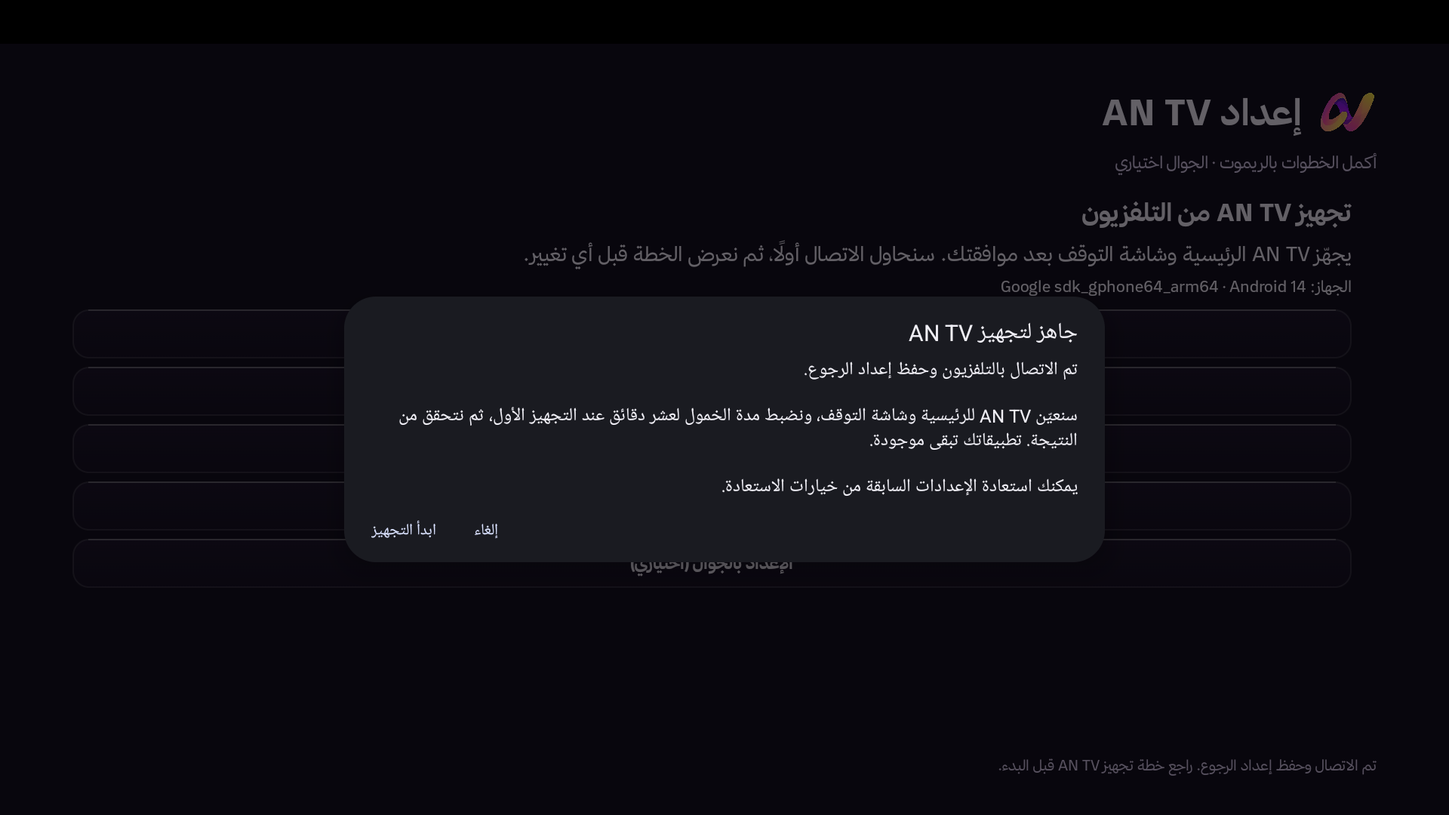
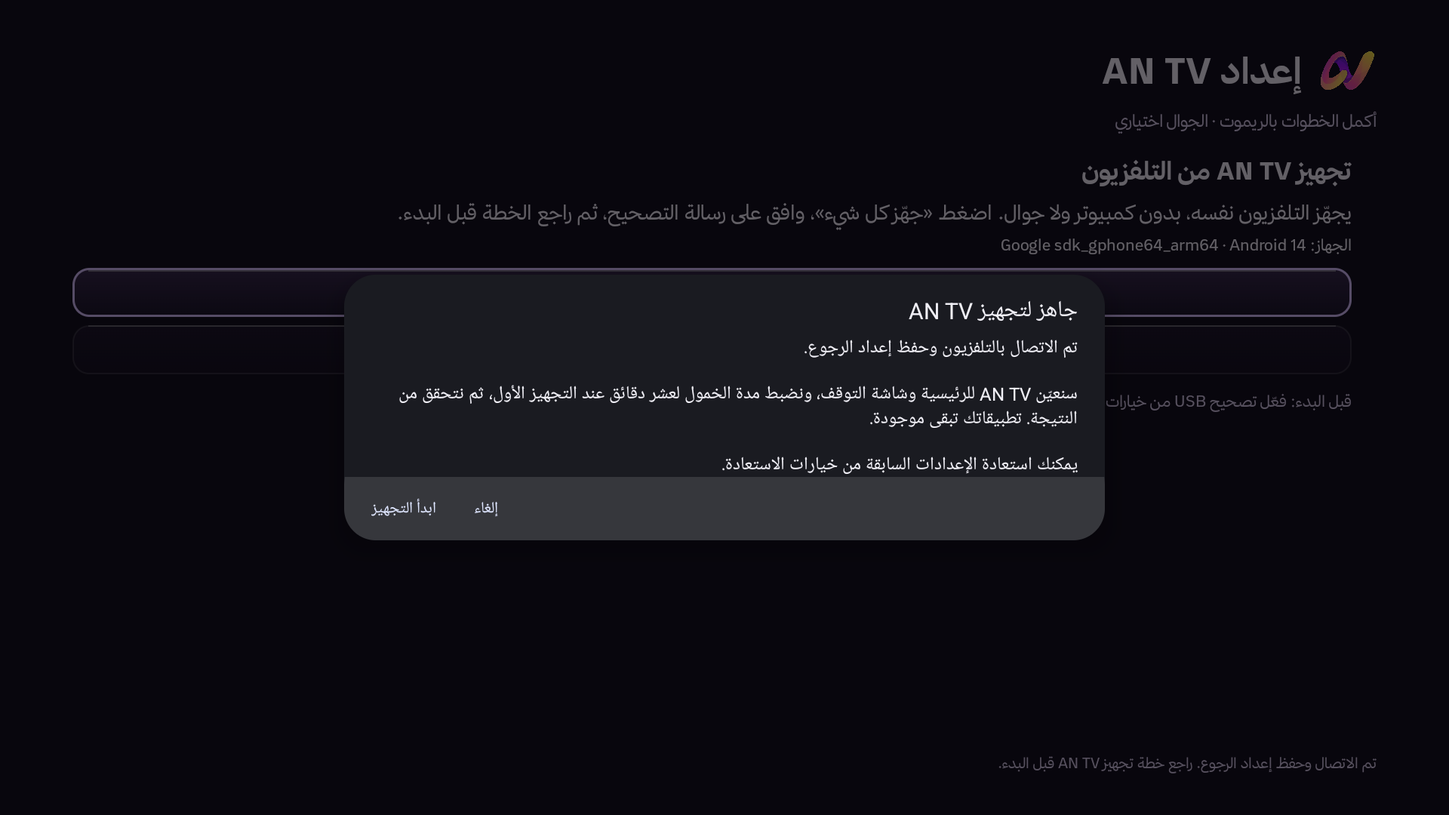
Show prepare-all start screen and simplified installation sequence

diff --git a/docs/index.html b/docs/index.html
@@ -46,17 +46,17 @@
       <p class="sub">ابدأ من التلفزيون والريموت · نحو ٥–١٥ دقيقة بحسب الجهاز والتحميل.</p>
       <div class="download-strip"><span>نزّل AN TV من Downloader</span><div class="downloader-code" aria-label="رمز داونلودر 1982161">1982161</div><span>اكتب الرمز ثم Go وثبّت التطبيق.</span></div>
       <div class="picture-steps">
-        <figure><a href="assets/current-setup.png?v=1351" target="_blank" rel="noopener"><img src="assets/current-setup.png?v=1351" alt="الخطوة الأولى: بدء تجهيز AN TV بزر واحد" loading="lazy"></a><figcaption><span class="step-index">١</span><div><h3>افتح واضغط جهّز</h3><p>افتح AN TV واضغط «جهّز AN TV»؛ يحاول الاتصال مباشرة.</p></div></figcaption></figure>
-        <figure><a href="assets/current-setup-2.png?v=1351" target="_blank" rel="noopener"><img src="assets/current-setup-2.png?v=1351" alt="الخطوة الثانية: مراجعة خطة التجهيز قبل الموافقة" loading="lazy"></a><figcaption><span class="step-index">٢</span><div><h3>جهّز الواجهة</h3><p>وافق على رسالة التصحيح، ثم راجع الخطة واضغط «ابدأ التجهيز».</p></div></figcaption></figure>
-        <figure><a href="assets/current-setup-3.png?v=1351" target="_blank" rel="noopener"><img src="assets/current-setup-3.png?v=1351" alt="الخطوة الثالثة: اختيار المدينة وإنهاء الإعداد وفتح الرئيسية" loading="lazy"></a><figcaption><span class="step-index">٣</span><div><h3>اختر مدينتك، وانتهينا</h3><p>بعد نجاح التجهيز اختر المدينة، ثم «إنهاء وفتح الرئيسية». جرّب زر Home.</p></div></figcaption></figure>
+        <figure><a href="assets/current-setup.png?v=1352" target="_blank" rel="noopener"><img src="assets/current-setup.png?v=1352" alt="الخطوة الأولى: بدء تجهيز AN TV بزر واحد" loading="lazy"></a><figcaption><span class="step-index">١</span><div><h3>افتح واضغط جهّز</h3><p>افتح AN TV واضغط «جهّز كل شيء»؛ يحاول الاتصال مباشرة.</p></div></figcaption></figure>
+        <figure><a href="assets/current-setup-2.png?v=1352" target="_blank" rel="noopener"><img src="assets/current-setup-2.png?v=1352" alt="الخطوة الثانية: مراجعة خطة التجهيز قبل الموافقة" loading="lazy"></a><figcaption><span class="step-index">٢</span><div><h3>جهّز الواجهة</h3><p>وافق على رسالة التصحيح، ثم راجع الخطة واضغط «ابدأ التجهيز».</p></div></figcaption></figure>
+        <figure><a href="assets/current-setup-3.png?v=1352" target="_blank" rel="noopener"><img src="assets/current-setup-3.png?v=1352" alt="الخطوة الثالثة: اختيار المدينة وإنهاء الإعداد وفتح الرئيسية" loading="lazy"></a><figcaption><span class="step-index">٣</span><div><h3>اختر مدينتك، وانتهينا</h3><p>بعد نجاح التجهيز اختر المدينة، ثم «إنهاء وفتح الرئيسية». جرّب زر Home.</p></div></figcaption></figure>
       </div>
       <p class="guide-note">اضغط الصورة لتكبيرها. تشغيل التصحيح مطلوب أول مرة؛ افتح خيارات المطور إذا لم يكن مفعّلًا. اللقطات من التطبيق على محاكي Android 14.</p>
       <details class="help-fold"><summary>تريد استخدام الجوال أو الكمبيوتر؟</summary><div class="alternative-grid"><div><h3>من الجوال · ١٠–٢٠ دقيقة</h3><p>نفس واي فاي التلفزيون ← افتح «الإعداد بالجوال» داخل AN TV ← امسح QR وأكمل. الموافقة على التصحيح تكون بالريموت.</p><p>لنقل الملف بدل Downloader: استخدم LocalSend إذا كان متاحًا على الجهازين.</p></div><div><h3>من الكمبيوتر · ١٠–٢٥ دقيقة</h3><p>نفس الشبكة ← أدوات Android Platform Tools ← اتصال ADB وتثبيت AN-TV.apk ← أكمل التجهيز من التلفزيون.</p><p>الأوامر والاقتران اللاسلكي في التفاصيل أدناه.</p></div></div></details>
       <details class="help-fold"><summary>تعطّل التثبيت أو لم تظهر رسالة السماح؟</summary><p>أعد تشغيل التلفزيون وجرّب التجهيز مجددًا. بعض الأجهزة تحتاج اقترانًا لاسلكيًا أو كمبيوترًا مرة واحدة. إذا ظهر «تطبيق ضار ومحظور»، أرسل صورة التحذير لفحص السبب؛ هذه المشكلة لم يُؤكد حلها بعد.</p></details>
-      <details class="help-fold"><summary>الشرح الكامل والأوامر والاستعادة والإزالة</summary><div class="full-guide"><h3>اختر الطريقة</h3><div style="overflow:auto"><table><tr><td>الطريقة</td><td>المطلوب</td><td>الوقت التقريبي</td></tr><tr><td>التلفزيون وحده</td><td>ريموت، إنترنت، Downloader، وتصحيح متاح</td><td>5–15 دقيقة</td></tr><tr><td>الجوال</td><td>أندرويد أو آيفون؛ نفس شبكة التلفزيون للتحكم المحلي</td><td>10–20 دقيقة</td></tr><tr><td>الكمبيوتر</td><td>Windows أو Mac أو Linux، وأدوات ADB عند الحاجة</td><td>10–25 دقيقة</td></tr></table></div><p>الأوقات تقديرية وقد تزيد عند تنزيل الملف أو حل مشكلة التصحيح. هذه تقديرات AN TV وليست قياسات لجميع الموديلات. تثبيت APK خطوة، وتفعيل الرئيسية وشاشة التوقف خطوة تالية.</p><h3>1 — من التلفزيون نفسه</h3><p>1. افتح إعدادات التلفزيون ثم النظام أو تفضيلات الجهاز، ثم لمحة/حول.</p><p>2. اضغط على رقم الإصدار Build سبع مرات حتى تظهر خيارات المطور.</p><p>3. افتح خيارات المطور وفعّل تصحيح USB أو ADB. إذا كان الجهاز يعرض تصحيحًا لاسلكيًا برمز، استخدم مسار الاقتران بدل افتراض المنفذ 5555.</p><p>4. نزّل Downloader من متجر التلفزيون. اكتب الرمز <strong>1982161</strong> ثم Go. هذا رمز AN TV.</p><p>5. اسمح لـ Downloader بتثبيت التطبيقات عندما يطلب النظام ذلك، وثبّت AN TV ثم افتحه.</p><p>6. افتح AN TV واضغط «جهّز AN TV». إذا تعذر الاتصال افتح خيارات المطور أو خيارات الاقتران حسب جهازك.</p><p>7. اضغط <span style="white-space:nowrap">«جهّز AN TV»</span>، واقرأ الخطة، ثم «ابدأ التجهيز».</p><p>8. وافق على رسالة السماح بالتصحيح من AN TV Setup. يبقى المعالج مفتوحًا أثناء العمل.</p><p>9. يحفظ المعالج اختيار الرئيسية وشاشة التوقف ومدة الخمول السابقة، ثم يضبط AN TV ويتحقق من الاختيارين. هذه نسخة إعدادات رجوع، وليست نسخة كاملة لنظام التشغيل.</p><p>10. بعد النجاح اختر منطقتك ومدينتك، ثم «إنهاء وفتح الرئيسية».</p><p>11. اختبر زر Home، ومعاينة شاشة التوقف، ثم استمرار الواجهة بعد إعادة تشغيل الجهاز.</p><p>12. افتح إعدادات AN TV ← تنبيه الأذان، وامنح إذن الظهور فوق التطبيقات، واختر المؤذن وطريقة التنبيه، ثم اختبر المعاينة بالصوت.</p><p>إذا لم تظهر رسالة التصحيح، أعد تشغيل التلفزيون وافتح معالج الإعداد مرة أخرى. بعض الأجهزة لا تفتح ADB عبر الشبكة بمجرد تفعيل USB؛ تحتاج اقترانًا لاسلكيًا أو كمبيوترًا مرة واحدة. لا توجد طريقة مضمونة لكل الموديلات.</p><h3>2 — من الجوال</h3><h4>النقل والتحكم من أندرويد أو آيفون</h4><p>1. اتصل بالجوال والتلفزيون بنفس شبكة المنزل، دون شبكة ضيوف معزولة.</p><p>2. الأسهل تنزيل التطبيق بـ Downloader على التلفزيون. البديل: نزّل APK من صفحة AN TV، وانقله عبر LocalSend إذا كان متاحًا على الجهازين، ثم افتحه على التلفزيون وثبّته.</p><p>3. افتح معالج إعداد AN TV على التلفزيون واضغط «الإعداد بالجوال (اختياري)».</p><p>4. امسح QR وافتح الرابط المحلي، وأدخل رمز الإعداد الظاهر إن طُلب.</p><p>5. من الصفحة افتح خيارات المطور على التلفزيون، وفعّل التصحيح بالريموت. ارجع للمعالج وأدخل بيانات الاقتران فقط إذا كان جهازك يعرضها.</p><p>6. نفّذ التفعيل، ووافق على رسالة التصحيح بالريموت، ثم اختر المدينة وأنهِ الإعداد.</p><p>7. إذا تعذر فتح الرابط: أبقِ المعالج مفتوحًا، واسمح بالوصول للشبكة المحلية عند طلب المتصفح، وتأكد من عدم عزل الأجهزة في الراوتر. يمكنك إكمال كل الخطوات بالريموت.</p><p>التحكم المحلي لا يحتاج حسابًا أو اشتراكًا. يحتاج نفس الشبكة؛ نقل الصور خدمة مختلفة عن إعداد التثبيت.</p><h4>إذا لم يستطع التلفزيون إجراء اتصال ADB محلي</h4><p>على أندرويد يمكن استخدام Termux مع حزمة android-tools للاتصال بالجهاز. على الكمبيوتر تُستخدم Android Platform Tools. إذا ظهر اقتران لاسلكي:</p><pre dir="ltr"><code>adb pair TV_IP:PAIR_PORT
+      <details class="help-fold"><summary>الشرح الكامل والأوامر والاستعادة والإزالة</summary><div class="full-guide"><h3>اختر الطريقة</h3><div style="overflow:auto"><table><tr><td>الطريقة</td><td>المطلوب</td><td>الوقت التقريبي</td></tr><tr><td>التلفزيون وحده</td><td>ريموت، إنترنت، Downloader، وتصحيح متاح</td><td>5–15 دقيقة</td></tr><tr><td>الجوال</td><td>أندرويد أو آيفون؛ نفس شبكة التلفزيون للتحكم المحلي</td><td>10–20 دقيقة</td></tr><tr><td>الكمبيوتر</td><td>Windows أو Mac أو Linux، وأدوات ADB عند الحاجة</td><td>10–25 دقيقة</td></tr></table></div><p>الأوقات تقديرية وقد تزيد عند تنزيل الملف أو حل مشكلة التصحيح. هذه تقديرات AN TV وليست قياسات لجميع الموديلات. تثبيت APK خطوة، وتفعيل الرئيسية وشاشة التوقف خطوة تالية.</p><h3>1 — من التلفزيون نفسه</h3><p>1. افتح إعدادات التلفزيون ثم النظام أو تفضيلات الجهاز، ثم لمحة/حول.</p><p>2. اضغط على رقم الإصدار Build سبع مرات حتى تظهر خيارات المطور.</p><p>3. افتح خيارات المطور وفعّل تصحيح USB أو ADB. إذا كان الجهاز يعرض تصحيحًا لاسلكيًا برمز، استخدم مسار الاقتران بدل افتراض المنفذ 5555.</p><p>4. نزّل Downloader من متجر التلفزيون. اكتب الرمز <strong>1982161</strong> ثم Go. هذا رمز AN TV.</p><p>5. اسمح لـ Downloader بتثبيت التطبيقات عندما يطلب النظام ذلك، وثبّت AN TV ثم افتحه.</p><p>6. افتح AN TV واضغط «جهّز كل شيء». إذا تعذر الاتصال افتح خيارات المطور أو خيارات الاقتران حسب جهازك.</p><p>7. اضغط <span style="white-space:nowrap">«جهّز كل شيء»</span>، واقرأ الخطة، ثم «ابدأ التجهيز».</p><p>8. وافق على رسالة السماح بالتصحيح من AN TV Setup. يبقى المعالج مفتوحًا أثناء العمل.</p><p>9. يحفظ المعالج اختيار الرئيسية وشاشة التوقف ومدة الخمول السابقة، ثم يضبط AN TV ويتحقق من الاختيارين. هذه نسخة إعدادات رجوع، وليست نسخة كاملة لنظام التشغيل.</p><p>10. بعد النجاح اختر منطقتك ومدينتك، ثم «إنهاء وفتح الرئيسية».</p><p>11. اختبر زر Home، ومعاينة شاشة التوقف، ثم استمرار الواجهة بعد إعادة تشغيل الجهاز.</p><p>12. افتح إعدادات AN TV ← تنبيه الأذان، وامنح إذن الظهور فوق التطبيقات، واختر المؤذن وطريقة التنبيه، ثم اختبر المعاينة بالصوت.</p><p>إذا لم تظهر رسالة التصحيح، أعد تشغيل التلفزيون وافتح معالج الإعداد مرة أخرى. بعض الأجهزة لا تفتح ADB عبر الشبكة بمجرد تفعيل USB؛ تحتاج اقترانًا لاسلكيًا أو كمبيوترًا مرة واحدة. لا توجد طريقة مضمونة لكل الموديلات.</p><h3>2 — من الجوال</h3><h4>النقل والتحكم من أندرويد أو آيفون</h4><p>1. اتصل بالجوال والتلفزيون بنفس شبكة المنزل، دون شبكة ضيوف معزولة.</p><p>2. الأسهل تنزيل التطبيق بـ Downloader على التلفزيون. البديل: نزّل APK من صفحة AN TV، وانقله عبر LocalSend إذا كان متاحًا على الجهازين، ثم افتحه على التلفزيون وثبّته.</p><p>3. افتح معالج إعداد AN TV على التلفزيون واضغط «الإعداد بالجوال (اختياري)».</p><p>4. امسح QR وافتح الرابط المحلي، وأدخل رمز الإعداد الظاهر إن طُلب.</p><p>5. من الصفحة افتح خيارات المطور على التلفزيون، وفعّل التصحيح بالريموت. ارجع للمعالج وأدخل بيانات الاقتران فقط إذا كان جهازك يعرضها.</p><p>6. نفّذ التفعيل، ووافق على رسالة التصحيح بالريموت، ثم اختر المدينة وأنهِ الإعداد.</p><p>7. إذا تعذر فتح الرابط: أبقِ المعالج مفتوحًا، واسمح بالوصول للشبكة المحلية عند طلب المتصفح، وتأكد من عدم عزل الأجهزة في الراوتر. يمكنك إكمال كل الخطوات بالريموت.</p><p>التحكم المحلي لا يحتاج حسابًا أو اشتراكًا. يحتاج نفس الشبكة؛ نقل الصور خدمة مختلفة عن إعداد التثبيت.</p><h4>إذا لم يستطع التلفزيون إجراء اتصال ADB محلي</h4><p>على أندرويد يمكن استخدام Termux مع حزمة android-tools للاتصال بالجهاز. على الكمبيوتر تُستخدم Android Platform Tools. إذا ظهر اقتران لاسلكي:</p><pre dir="ltr"><code>adb pair TV_IP:PAIR_PORT
 adb connect TV_IP:CONNECT_PORT
 adb -s TV_IP:CONNECT_PORT tcpip 5555
-</code></pre><p>اكتب رمز الاقتران عند طلبه، واستبدل القيم بما يعرضه التلفزيون. لا تفترض أن منفذ الاتصال يساوي منفذ الاقتران. بعدها جرّب <span style="white-space:nowrap">«جهّز AN TV»</span> بالريموت في وضع الاتصال المباشر. قد يُغلق 5555 بعد إعادة التشغيل.</p><p>على الآيفون، صفحة الإعداد المحلية هي مسارنا الأساسي. تشغيل ADB عبر iSH ليس مسارًا مختبرًا لدينا؛ عند تعذر الاتصال المحلي استخدم أندرويد أو كمبيوتر. لا يُطلب Codex أو اشتراك ذكاء اصطناعي.</p><h3>3 — من الكمبيوتر</h3><p>1. وصّل الكمبيوتر والتلفزيون بنفس الشبكة وثبّت Android Platform Tools من موقع Android الرسمي.</p><p>2. نزّل AN-TV.apk من صفحة تحميلنا. فعّل تصحيح التلفزيون.</p><p>3. للاتصال المباشر نفّذ <code dir="ltr">adb connect TV_IP:5555</code> ووافق على رسالة التلفزيون. للتصحيح اللاسلكي نفّذ أوامر الاقتران الموضحة أعلاه.</p><p>4. ثبّت الملف: <code dir="ltr">adb -s TV_IP:PORT install -r AN-TV.apk</code>.</p><p>5. افتح AN TV من التلفزيون، وأكمل معالج التجهيز واختيار المدينة. إذا احتاج الاتصال المحلي 5555، نفّذ <code dir="ltr">adb -s TV_IP:PORT tcpip 5555</code> قبل العودة للمعالج.</p><p>6. راجع النتيجة بزر Home ومعاينة شاشة التوقف. لا تشغّل سكربتات UrTV القديمة على AN TV؛ قد تستبدل تطبيقاتنا أو إعداداتنا.</p><h3>ماذا يحفظ وماذا يغيّر؟</h3><p>يحفظ معالجنا الرئيسية وشاشة التوقف وتفعيلها ومدة الخمول السابقة. يعيّن AN TV واجهة رئيسية وشاشة توقف، ويمنح الإعدادات اللازمة التي يسمح بها ADB. لا يستبدل Android أو يثبت نظام تشغيل جديدًا، ولا يحذف برامجك، ولا يطبق تنظيف UrTV أو تنزيل متصفح وSmartTube.</p><h3>التراجع والإزالة</h3><p>1. افتح إعداد AN TV؛ يمكن الوصول إليه بالضغط المطول على زر الإعدادات في الرئيسية.</p><p>2. فعّل التصحيح مجددًا عند الحاجة، واضغط «استعادة الواجهة السابقة».</p><p>3. انتظر تأكيد النجاح، واختبر زر Home.</p><p>4. للإزالة استخدم «استعادة الواجهة ثم حذف AN TV»؛ تظهر موافقة الحذف بعد نجاح الاستعادة.</p><p>5. لا تحذف التطبيق قبل الاستعادة إن كنت تريد استخدام نسخة إعدادات الرجوع المحفوظة داخله.</p><h3>التحديث</h3><p>إعدادات AN TV ← تحديث AN TV. التحديث من حزمة المشروع الموقعة نفسها يحافظ عادة على الإعدادات. التثبيت يحتاج موافقة النظام؛ لا نعد بتثبيت صامت على جميع الأجهزة.</p><h3>المشكلات الشائعة</h3><p>- «تطبيق ضار ومحظور»: توقف التثبيت قبل المعالج. أرسل نص التحذير وإصدار الحزمة للفحص ومراجعة تصنيف الحماية. المعالج لا يستطيع إزالة هذا الحظر.</p><p>- «لا توجد أرقام»: اختر الاتصال المباشر فقط إذا كان ADB متاحًا؛ تفعيل USB لا يضمن فتح منفذ الشبكة.</p><p>- «تعذر الاتصال»: تحقق من الشبكة وتفويض التصحيح والمنفذ. جرّب الريموت بدل صفحة الجوال.</p><p>- «تعذر حفظ الواجهة السابقة»: لا يكمل المعالج تغيير الرئيسية دون إعداد رجوع صالح. لا تعتبر العملية ناجحة.</p><p>- «البرنامج يفتح كتطبيق»: لم يكتمل تعيين الرئيسية؛ أكمل التفعيل وتحقق بزر Home.</p><p>- «الأذان لا يظهر»: افتح تنبيه الأذان، فعّل التنبيه وإذن الظهور والمعاينة. راجع المدينة والتوقيت.</p><h3>المؤذنون وطمأنينة</h3><p>طمأنينة هو مدخل التلاوات. اختيار مؤذن تنبيه الصلاة في إعدادات AN TV ← تنبيه الأذان. القائمة الحالية تتضمن عبدالعزيز بن ماجد وأسماء مختارة من مؤذني مكة والمدينة. أسماء القراء في مشغل القرآن ليست قائمة مؤذنين. مصادر التسجيلات موثقة في شاشة مصادر أصوات المؤذنين؛ توجد تسجيلات من Archive.org. لا ننسب تسجيلًا مجهول المؤذن لاسم شيخ.</p><h3>مصدر طريقة التجهيز</h3><p>مبدأ ADB المحلي والتجهيز من التلفزيون مستلهم من توثيق UrTV، مع معالج AN TV وتغييراتنا. إشعارات ترخيص المكونات محفوظة. لا تستخدم رمز تحميل UrTV لتثبيت AN TV.</p></div></details>
+</code></pre><p>اكتب رمز الاقتران عند طلبه، واستبدل القيم بما يعرضه التلفزيون. لا تفترض أن منفذ الاتصال يساوي منفذ الاقتران. بعدها جرّب <span style="white-space:nowrap">«جهّز كل شيء»</span> بالريموت في وضع الاتصال المباشر. قد يُغلق 5555 بعد إعادة التشغيل.</p><p>على الآيفون، صفحة الإعداد المحلية هي مسارنا الأساسي. تشغيل ADB عبر iSH ليس مسارًا مختبرًا لدينا؛ عند تعذر الاتصال المحلي استخدم أندرويد أو كمبيوتر. لا يُطلب Codex أو اشتراك ذكاء اصطناعي.</p><h3>3 — من الكمبيوتر</h3><p>1. وصّل الكمبيوتر والتلفزيون بنفس الشبكة وثبّت Android Platform Tools من موقع Android الرسمي.</p><p>2. نزّل AN-TV.apk من صفحة تحميلنا. فعّل تصحيح التلفزيون.</p><p>3. للاتصال المباشر نفّذ <code dir="ltr">adb connect TV_IP:5555</code> ووافق على رسالة التلفزيون. للتصحيح اللاسلكي نفّذ أوامر الاقتران الموضحة أعلاه.</p><p>4. ثبّت الملف: <code dir="ltr">adb -s TV_IP:PORT install -r AN-TV.apk</code>.</p><p>5. افتح AN TV من التلفزيون، وأكمل معالج التجهيز واختيار المدينة. إذا احتاج الاتصال المحلي 5555، نفّذ <code dir="ltr">adb -s TV_IP:PORT tcpip 5555</code> قبل العودة للمعالج.</p><p>6. راجع النتيجة بزر Home ومعاينة شاشة التوقف. لا تشغّل سكربتات UrTV القديمة على AN TV؛ قد تستبدل تطبيقاتنا أو إعداداتنا.</p><h3>ماذا يحفظ وماذا يغيّر؟</h3><p>يحفظ معالجنا الرئيسية وشاشة التوقف وتفعيلها ومدة الخمول السابقة. يعيّن AN TV واجهة رئيسية وشاشة توقف، ويمنح الإعدادات اللازمة التي يسمح بها ADB. لا يستبدل Android أو يثبت نظام تشغيل جديدًا، ولا يحذف برامجك، ولا يطبق تنظيف UrTV أو تنزيل متصفح وSmartTube.</p><h3>التراجع والإزالة</h3><p>1. افتح إعداد AN TV؛ يمكن الوصول إليه بالضغط المطول على زر الإعدادات في الرئيسية.</p><p>2. فعّل التصحيح مجددًا عند الحاجة، واضغط «استعادة الواجهة السابقة».</p><p>3. انتظر تأكيد النجاح، واختبر زر Home.</p><p>4. للإزالة استخدم «استعادة الواجهة ثم حذف AN TV»؛ تظهر موافقة الحذف بعد نجاح الاستعادة.</p><p>5. لا تحذف التطبيق قبل الاستعادة إن كنت تريد استخدام نسخة إعدادات الرجوع المحفوظة داخله.</p><h3>التحديث</h3><p>إعدادات AN TV ← تحديث AN TV. التحديث من حزمة المشروع الموقعة نفسها يحافظ عادة على الإعدادات. التثبيت يحتاج موافقة النظام؛ لا نعد بتثبيت صامت على جميع الأجهزة.</p><h3>المشكلات الشائعة</h3><p>- «تطبيق ضار ومحظور»: توقف التثبيت قبل المعالج. أرسل نص التحذير وإصدار الحزمة للفحص ومراجعة تصنيف الحماية. المعالج لا يستطيع إزالة هذا الحظر.</p><p>- «لا توجد أرقام»: اختر الاتصال المباشر فقط إذا كان ADB متاحًا؛ تفعيل USB لا يضمن فتح منفذ الشبكة.</p><p>- «تعذر الاتصال»: تحقق من الشبكة وتفويض التصحيح والمنفذ. جرّب الريموت بدل صفحة الجوال.</p><p>- «تعذر حفظ الواجهة السابقة»: لا يكمل المعالج تغيير الرئيسية دون إعداد رجوع صالح. لا تعتبر العملية ناجحة.</p><p>- «البرنامج يفتح كتطبيق»: لم يكتمل تعيين الرئيسية؛ أكمل التفعيل وتحقق بزر Home.</p><p>- «الأذان لا يظهر»: افتح تنبيه الأذان، فعّل التنبيه وإذن الظهور والمعاينة. راجع المدينة والتوقيت.</p><h3>المؤذنون وطمأنينة</h3><p>طمأنينة هو مدخل التلاوات. اختيار مؤذن تنبيه الصلاة في إعدادات AN TV ← تنبيه الأذان. القائمة الحالية تتضمن عبدالعزيز بن ماجد وأسماء مختارة من مؤذني مكة والمدينة. أسماء القراء في مشغل القرآن ليست قائمة مؤذنين. مصادر التسجيلات موثقة في شاشة مصادر أصوات المؤذنين؛ توجد تسجيلات من Archive.org. لا ننسب تسجيلًا مجهول المؤذن لاسم شيخ.</p><h3>مصدر طريقة التجهيز</h3><p>مبدأ ADB المحلي والتجهيز من التلفزيون مستلهم من توثيق UrTV، مع معالج AN TV وتغييراتنا. إشعارات ترخيص المكونات محفوظة. لا تستخدم رمز تحميل UrTV لتثبيت AN TV.</p></div></details>
     </section>
     <section class="panel" id="preview"><h2>هذه واجهة AN TV</h2><div class="visuals"><figure><img loading="lazy" src="assets/current-home.png" alt="الصفحة الرئيسية في AN TV"><figcaption>الصفحة الرئيسية</figcaption></figure><figure><img loading="lazy" src="assets/current-saver.png" alt="شاشة التوقف في AN TV"><figcaption>شاشة التوقف</figcaption></figure></div></section>
     <section class="panel" id="features"><h2>مميزات AN TV</h2><p class="sub">واجهة رئيسية وشاشة توقف عربية مصممة للريموت، بخط ثمانية ولمسات السدو والزجاج الخزامي.</p><div class="catalog"><article><h3>الرئيسية على مقاسك</h3><p>تطبيقات مفضلة، بث حي صامت لقناة القرآن الكريم، وتوقيت الصلاة القادمة، مع اختيار المدينة من الشاشة.</p></article><article><h3>شاشة توقف حيّة</h3><p>ساعة وتاريخ هجري وميلادي، الطقس، المناسبة القادمة، نجوم السنة، وآية أو حديث يتبدلان يوميًا.</p></article><article><h3>تنبيه الأذان</h3><p>شريط زجاجي فوق التطبيقات عند الصلاة إذا سمح الجهاز بالظهور فوقها. اختر مؤذنًا، أذانًا كاملًا أو مقطعًا قصيرًا أو تنبيهًا صامتًا، واضبط المدة ووضوح الصوت وجرّب المعاينة من الإعدادات.</p></article><article><h3>الصور والتحديث</h3><p>٢٢ خلفية محفوظة تعمل دون إنترنت، وصور جديدة عند الاتصال، مع اسم المصور. يتيح التطبيق تحديث نفسه واستعادة اختيار الواجهة السابقة.</p></article></div></section>

diff --git a/docs/AN-TV-INSTALL.md b/docs/AN-TV-INSTALL.md
@@ -19,7 +19,7 @@
 3. افتح خيارات المطور وفعّل تصحيح USB أو ADB. إذا كان الجهاز يعرض تصحيحًا لاسلكيًا برمز، استخدم مسار الاقتران بدل افتراض المنفذ 5555.
 4. نزّل Downloader من متجر التلفزيون. اكتب الرمز **1982161** ثم Go. هذا رمز AN TV.
 5. اسمح لـ Downloader بتثبيت التطبيقات عندما يطلب النظام ذلك، وثبّت AN TV ثم افتحه.
-6. افتح AN TV واضغط «جهّز AN TV»؛ يحاول الاتصال المحلي دون إدخال أرقام. إذا تعذر الاتصال افتح خيارات المطور أو خيارات الاقتران حسب جهازك.
+6. افتح AN TV واضغط «جهّز كل شيء»؛ يحاول الاتصال المحلي دون إدخال أرقام. إذا تعذر الاتصال افتح المساعدة أسفل زر التجهيز، ومنها خيارات المطور أو الاقتران حسب جهازك.
 7. وافق على رسالة التصحيح أولًا؛ بعد الاتصال وحفظ إعداد الرجوع تُعرض الخطة، ثم اضغط «ابدأ التجهيز».
 8. وافق على رسالة السماح بالتصحيح من AN TV Setup. يبقى المعالج مفتوحًا أثناء العمل.
 9. يحفظ المعالج اختيار الرئيسية وشاشة التوقف ومدة الخمول السابقة، ثم يضبط AN TV ويتحقق من الاختيارين. هذه نسخة إعدادات رجوع، وليست نسخة كاملة لنظام التشغيل.
@@ -53,7 +53,7 @@ adb connect TV_IP:CONNECT_PORT
 adb -s TV_IP:CONNECT_PORT tcpip 5555
 ```
 
-اكتب رمز الاقتران عند طلبه، واستبدل القيم بما يعرضه التلفزيون. لا تفترض أن منفذ الاتصال يساوي منفذ الاقتران. بعدها جرّب «جهّز AN TV» بالريموت في وضع الاتصال المباشر. قد يُغلق 5555 بعد إعادة التشغيل.
+اكتب رمز الاقتران عند طلبه، واستبدل القيم بما يعرضه التلفزيون. لا تفترض أن منفذ الاتصال يساوي منفذ الاقتران. بعدها جرّب «جهّز كل شيء» بالريموت في وضع الاتصال المباشر. قد يُغلق 5555 بعد إعادة التشغيل.
 
 على الآيفون، صفحة الإعداد المحلية هي مسارنا الأساسي. تشغيل ADB عبر iSH ليس مسارًا مختبرًا لدينا؛ عند تعذر الاتصال المحلي استخدم أندرويد أو كمبيوتر. لا يُطلب Codex أو اشتراك ذكاء اصطناعي.
 

diff --git a/README.md b/README.md
@@ -19,6 +19,12 @@
 
 اختيار المدينة، مواقيت الصلاة، تنبيه الأذان ومعاينته، حجم الخط، المفضلة، الخلفيات وصوري ومصادر المعلومات والتحديثات.
 
+## التجهيز من التلفزيون
+
+![زر جهّز كل شيء داخل AN TV](docs/assets/current-setup.png?v=1352)
+
+فعّل تصحيح USB أول مرة، وثبّت AN TV برمز Downloader **1982161**، ثم افتحه واضغط **جهّز كل شيء**. وافق على رسالة التصحيح، وراجع الخطة ثم ابدأ. زر **تراجع** يستعيد الرئيسية وشاشة التوقف السابقة. المساعدة والاقتران اللاسلكي متاحان عند الحاجة.
+
 ## التثبيت والتحديث
 
 [صفحة الشرح والتحميل](https://aij17.github.io/AN-TV-Installer/) · رمز Downloader: **1982161**.
